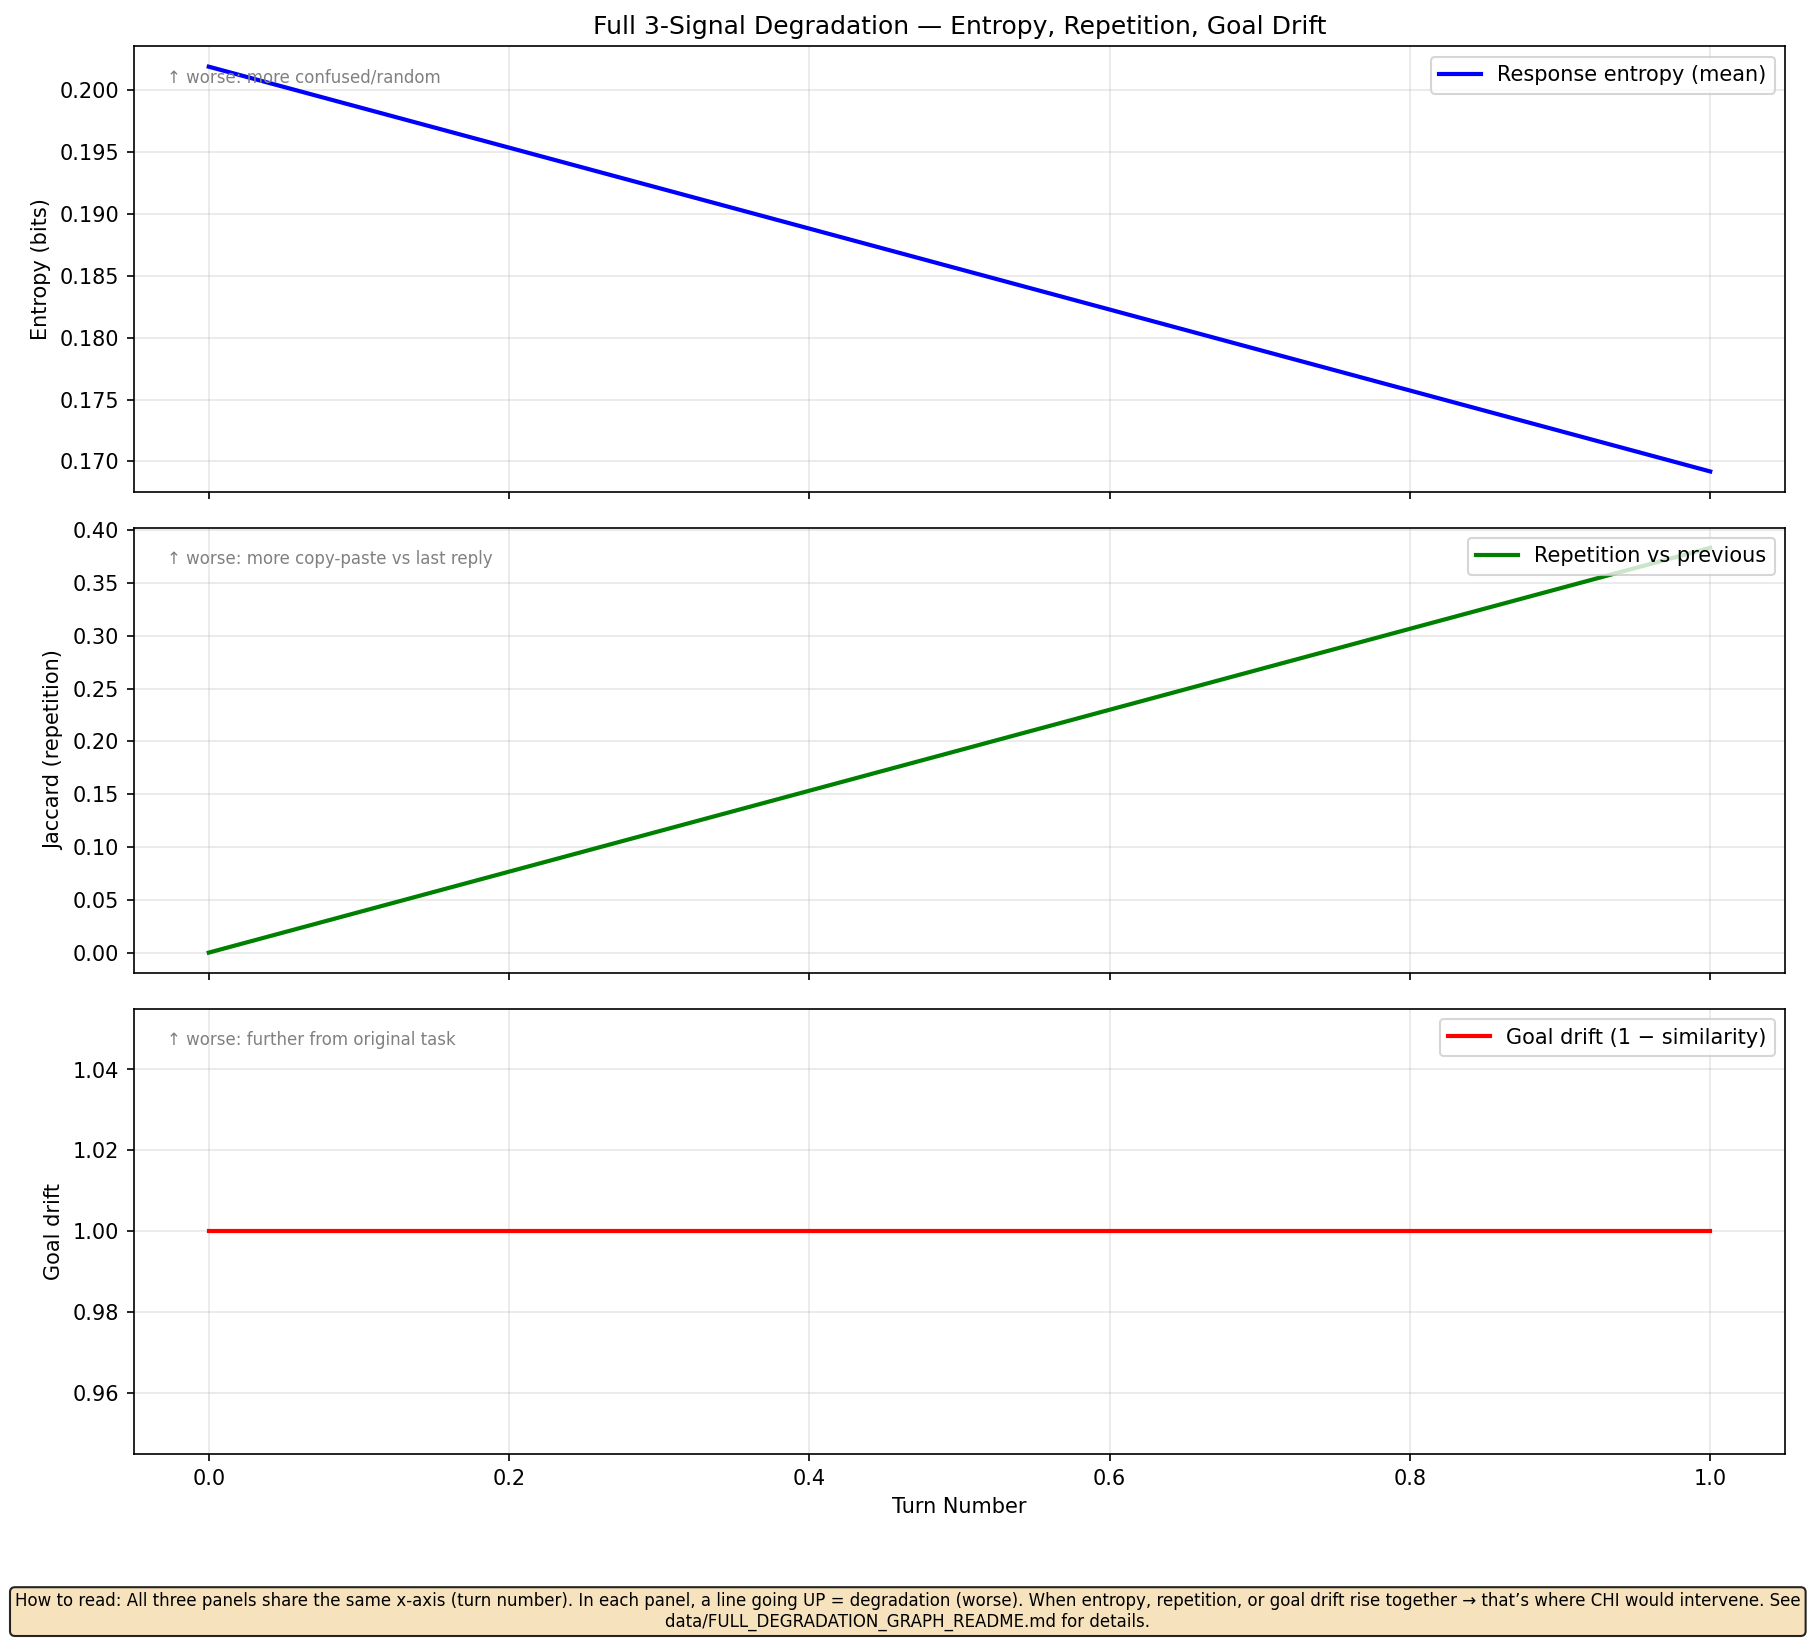
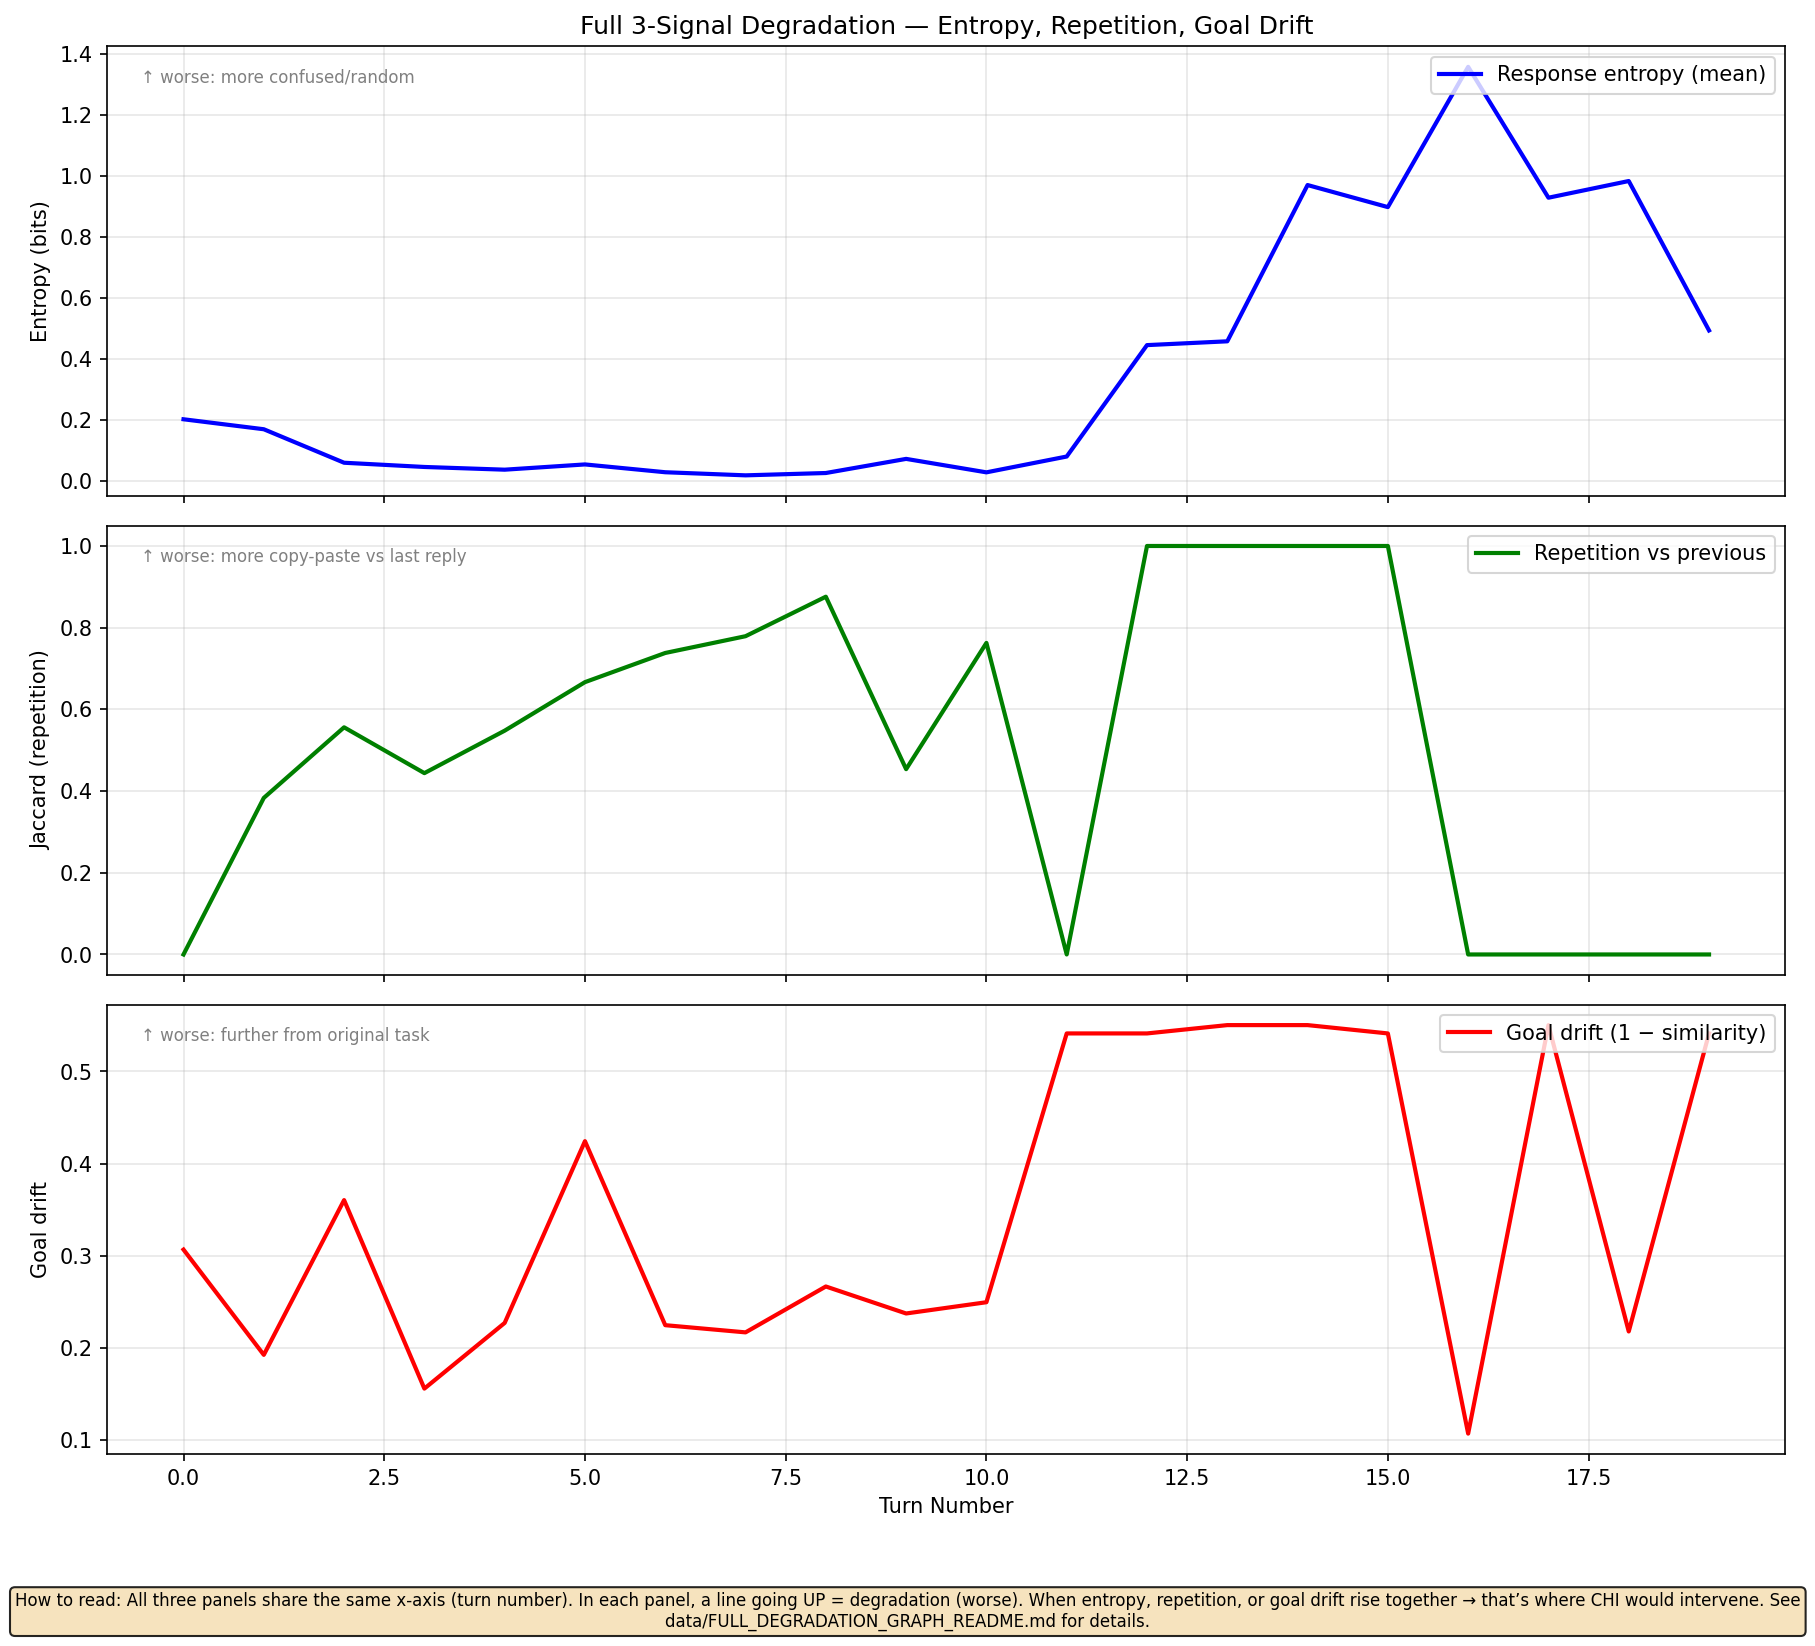
Goal drift fix + full 3-signal experiment

diff --git a/engine/goal_drift.py b/engine/goal_drift.py
@@ -13,7 +13,7 @@ sys.path.insert(0, str(Path(__file__).resolve().parent.parent))
 
 import mlx.core as mx
 
-from engine.hidden_states import extract_hidden_states
+from engine.hidden_states import extract_hidden_states, extract_hidden_states_forward_only
 
 
 def compute_goal_drift(
@@ -22,6 +22,7 @@ def compute_goal_drift(
     original_task: str,
     current_output: str,
     layer_idx: int = 27,
+    use_forward_only: bool = True,
 ) -> float:
     """
     Measure how far the model's current output has drifted from the original task.
@@ -30,22 +31,40 @@ def compute_goal_drift(
 
     Uses hidden states from layer_idx (default 27 = last layer for better semantic
     discrimination), averaged over sequence length. Numerically stable for large norms.
+
+    When use_forward_only=True (default): single forward pass on each text, no generation.
+    This avoids degenerate similarity when current_output is long (e.g. 300 tokens) where
+    "prompt + 1 generated token" would average over a very long sequence and distort the
+    comparison. Both task and response are compared as plain text representations.
     """
-    # Get hidden state for original task description (prompt + 1 generated token)
-    _, task_states = extract_hidden_states(
-        model, tokenizer, original_task, layer_idx=layer_idx, max_tokens=1
-    )
-    # Get hidden state for current model output
-    _, output_states = extract_hidden_states(
-        model, tokenizer, current_output, layer_idx=layer_idx, max_tokens=1
-    )
+    if use_forward_only:
+        task_states = extract_hidden_states_forward_only(
+            model, tokenizer, original_task, layer_idx=layer_idx
+        )
+        output_states = extract_hidden_states_forward_only(
+            model, tokenizer, current_output, layer_idx=layer_idx
+        )
+    else:
+        _, task_states = extract_hidden_states(
+            model, tokenizer, original_task, layer_idx=layer_idx, max_tokens=1
+        )
+        _, output_states = extract_hidden_states(
+            model, tokenizer, current_output, layer_idx=layer_idx, max_tokens=1
+        )
 
     if task_states is None or output_states is None:
         raise ValueError("Hidden state extraction returned None")
 
-    # Average over batch and sequence to get single vector per text: (1, seq, dim) -> (dim,)
+    # Task: mean over sequence (short text). Output: for long sequences use last-token
+    # hidden state only; averaging over 300+ positions can produce degenerate (e.g. ~0)
+    # similarity due to scale/numerics. Last token encodes the full sequence in causal LMs.
     task_vec = mx.mean(task_states, axis=(0, 1))
-    output_vec = mx.mean(output_states, axis=(0, 1))
+    seq_len = output_states.shape[1]
+    max_mean_positions = 128
+    if seq_len > max_mean_positions:
+        output_vec = output_states[0, -1, :]  # (hidden_dim,)
+    else:
+        output_vec = mx.mean(output_states, axis=(0, 1))
 
     # Numerically stable cosine: scale to avoid overflow, then unit vectors
     scale_a = mx.max(mx.abs(task_vec)) + 1e-12

diff --git a/scripts/full_degradation_experiment.py b/scripts/full_degradation_experiment.py
@@ -38,6 +38,7 @@ def run_full_degradation_experiment(
     turns=None,
     max_tokens: int = 300,
     context_limit: int = 28000,
+    debug: bool = False,
 ):
     """
     Run multi-turn conversation and track entropy, repetition, and goal drift.
@@ -79,13 +80,18 @@ def run_full_degradation_experiment(
             repetition_score = compute_repetition_score(responses[i - 1], response)
 
         # --- 3. Goal drift from original task (TASK-011) ---
-        # current_output = this turn's response; similarity high = on-task, low = drift
+        # Pass ONLY current turn's response (not full conversation). Uses forward-only
+        # hidden state so long response text doesn't produce degenerate similarity.
         try:
             similarity = compute_goal_drift(
-                model, tokenizer, original_task, response, layer_idx=27
+                model, tokenizer, original_task, response, layer_idx=27, use_forward_only=True
             )
             # Store as "drift" so that higher = worse (align with entropy & repetition)
             goal_drift = 1.0 - similarity
+            if debug:
+                print(f"  [Turn {i}] original_task = '{original_task[:80]}...'")
+                print(f"  [Turn {i}] current_response = '{response[:80]}...'")
+                print(f"  [Turn {i}] goal_drift raw cosine (similarity) = {similarity:.4f}")
         except Exception as e:
             goal_drift = float("nan")
             similarity = float("nan")
@@ -194,6 +200,11 @@ if __name__ == "__main__":
         action="store_true",
         help="Only regenerate the graph from existing data/full_degradation.json.",
     )
+    parser.add_argument(
+        "--debug",
+        action="store_true",
+        help="Print goal-drift debug info (original_task, response snippet, raw cosine) each turn.",
+    )
     args = parser.parse_args()
 
     data_dir = Path(__file__).resolve().parent.parent / "data"
@@ -206,7 +217,9 @@ if __name__ == "__main__":
     else:
         model, tokenizer = load("mlx-community/Qwen2.5-Coder-7B-Instruct-4bit")
         turns = TASK_SEQUENCE[: args.max_turns] if args.max_turns else None
-        results = run_full_degradation_experiment(model, tokenizer, turns=turns)
+        results = run_full_degradation_experiment(
+            model, tokenizer, turns=turns, debug=args.debug
+        )
         with open(out_json, "w") as f:
             json.dump(results, f, indent=2)
         print(f"Saved: {out_json}")

diff --git a/engine/hidden_states.py b/engine/hidden_states.py
@@ -56,6 +56,37 @@ def extract_hidden_states(model, tokenizer, prompt, layer_idx=16, max_tokens=100
     finally:
         layers[layer_idx] = original_layer
 
+
+def extract_hidden_states_forward_only(model, tokenizer, text: str, layer_idx: int = 16):
+    """
+    Get hidden state for text via a single forward pass (no generation).
+    Use when comparing two texts of possibly very different length (e.g. task vs long response).
+    Returns: hidden_state_tensor shape (1, seq_len, hidden_dim), or None on failure.
+    """
+    captured = []
+    layers = model.model.layers
+    original_layer = layers[layer_idx]
+    layers[layer_idx] = _CaptureLayer(original_layer, captured)
+
+    try:
+        if isinstance(text, str):
+            tokens = tokenizer.encode(text, add_special_tokens=True)
+        else:
+            tokens = list(text)
+        if not tokens:
+            return None
+        tokens = mx.array(tokens)[None]  # (1, seq_len)
+        captured.clear()
+        _ = model(tokens, cache=None)
+        mx.eval(_)
+        hidden = captured[0] if captured else None
+        if hidden is not None:
+            mx.eval(hidden)
+        return hidden
+    finally:
+        layers[layer_idx] = original_layer
+
+
 if __name__ == "__main__":
     model, tokenizer = load("mlx-community/Qwen2.5-Coder-7B-Instruct-4bit")
     text, states = extract_hidden_states(model, tokenizer, "Write hello world in Python")

diff --git a/.cofounder/SESSION_LOG.md b/.cofounder/SESSION_LOG.md
@@ -176,3 +176,18 @@
   - Confirms both methods run and produce a concrete inflection turn when enough data is present.
 - **Inflection turn:** For production: run full TASK-013 then `python scripts/find_inflection.py`; write the printed turn number here — it drives Phase 1 (when to trigger interventions). Current repo has only 2-turn real run; full run needed for real inflection number.
 - Git: `TASK-014: inflection point detection`
+
+## 2026-03-08 (Goal drift fix + full 3-signal experiment)
+
+- **Bug:** In the full experiment, goal drift was pegged at 1.0 (cosine similarity 0.0). Standalone TASK-011 was correct (0.89); inside the experiment we were comparing hidden states wrongly for long responses.
+- **Root cause:** `compute_goal_drift` used `extract_hidden_states(..., max_tokens=1)`, which for a long response (300+ tokens) did a forward over prompt+1 token and averaged hidden state over the full sequence. That average over 300+ positions produced degenerate/near-zero similarity (numerical/scale issue).
+- **Fix 1 — Forward-only, no generation:** Added `extract_hidden_states_forward_only(model, tokenizer, text, layer_idx)` in `engine/hidden_states.py`: single forward pass on tokenized text, no generation. Used in `compute_goal_drift(..., use_forward_only=True)` so both task and response are compared as plain text representations.
+- **Fix 2 — Long sequences:** For `current_output` with >128 tokens, use **last-token hidden state only** instead of mean over sequence (causal LM last position encodes the sequence). Prevents degenerate 0 similarity when averaging 300+ positions. Short sequences still use mean.
+- **Verification:** Short task vs short response → 0.98; short vs long on-task response (358 tokens) → 0.77 (was 0.0 before fix). 3-turn experiment: drift = 0.31, 0.19, 0.36 (no longer pegged at 1.0).
+- **Experiment script:** Added `--debug` to print `original_task`, `current_response` snippet, and raw cosine each turn. Confirmed we pass only the current turn’s **response** (not full conversation) to `compute_goal_drift`.
+- **Full 20-turn run:** Started `python scripts/full_degradation_experiment.py` (no `--max-turns`). Takes ~15–30 min. When it finishes:
+  1. Regenerate graph: already saved as `data/full_degradation_graph.png` (x-axis will be 0–19).
+  2. Run `python scripts/find_inflection.py` and **write the printed inflection turn below**.
+  3. Open `data/full_degradation_graph.png` and add a one-line description of the 3 panels below.
+- **Real inflection turn (from full run):** **Turn 10.** `python scripts/find_inflection.py` on 20-turn data: moving average crossover at turn 10; maximum entropy increase at turn 13 (largest jump into turn 14). Entropy range 0.0182 — 1.3564. → **CHI would start Level 2 intervention around turn 10.**
+- **3-signal graph description (from full run):** X-axis 0–19 (20 turns). **Entropy:** low and stable for turns 0–9 (~0.02–0.07), then rises from turn 11 (0.08, 0.44, 0.46, 0.97, 0.90, 1.36, …). **Repetition:** rises through turn 9 (up to ~0.88), then turns 11–17 show 0 or 1.0 (short/variable responses). **Goal drift:** varies per turn (0.15–0.55), not pegged at 1.0. Clear degradation: entropy spike from ~turn 10 onward; inflection at turn 10.
